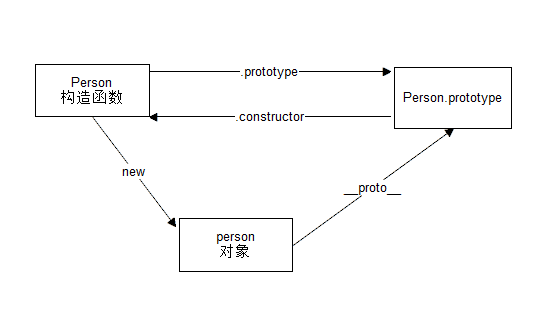
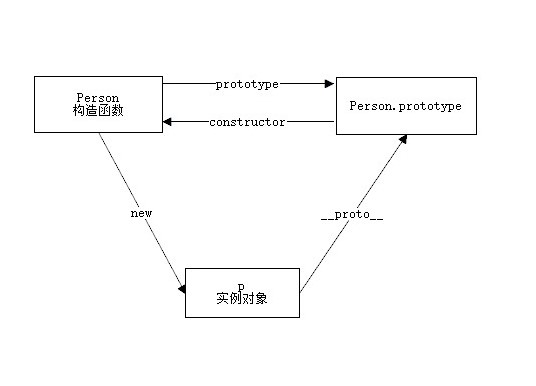
描述更改

diff --git a/JavaScript/JavaScript中的原型与原型链.md b/JavaScript/JavaScript中的原型与原型链.md
@@ -34,7 +34,7 @@
 
 <h3 id='prototype'>原型</h3>
 
-> JavaScript是基于原型的
+> `JavaScript` 是基于原型的
 
 > 我们创建的每个函数都有一个 `prototype(原型)` 属性，这个属性是一个指针，指向一个对象，而这个对象的用途是包含可以由特定类型的所有实例共享的属性和方法。
 
@@ -51,9 +51,9 @@
 ```js
 function Person(){}
 
-var person = new Person();
+var p = new Person();
 
-person.__proto__ === Person.prototype // true
+p.__proto__ === Person.prototype // true
 
 Person.prototype.constructor === Person // true
 ```
@@ -69,14 +69,14 @@ Person.prototype.age = 18;
 Person.prototype.sayHi = function() {
     alert('Hi');
 }
-var person = new Person();
 var person1 = new Person();
-person.name = 'oo';
-person.name // oo
-person.age // 18
-perosn.sayHi() // Hi
+var person2 = new Person();
+person1.name = 'oo';
+person1.name // oo
 person1.age // 18
-person1.sayHi() // Hi
+perosn1.sayHi() // Hi
+person2.age // 18
+person2.sayHi() // Hi
 ```
 从这段代码我们不难看出：
 - 实例可以共享原型上面的属性和方法
@@ -94,21 +94,21 @@ Person.prototype = {
     }
 }
 
-var person = new Person()
+var p = new Person()
 ```
 只是当我们在重写原型链的时候需要注意以下的问题:
 
 ```js
 function Person(){}
-var person = new Person();
+var p = new Person();
 Person.prototype = {
     name: 'tt',
     age: 18
 }
 
-Person.prototype.constructor == Person // false
+Person.prototype.constructor === Person // false
 
-person.name // undefined
+p.name // undefined
 ```
 
 一图胜过千言万语
@@ -183,10 +183,10 @@ Point.prototype.toString = function () {
 
 ```js
 function Person(){}
-var person = new Person();
+var p = new Person();
 
-person instanceof Person // true
-person instanceof Object // true
+p instanceof Person // true
+p instanceof Object // true
 ```
 > hasOwnProperty
 
@@ -197,11 +197,11 @@ function Person() {}
 Person.prototype = {
     name: 'tt'
 }
-var person = new Person();
-person.age = 15;
+var p = new Person();
+p.age = 15;
 
-person.hasOwnProperty('age') // true
-person.hasOwnProperty('name') // false
+p.hasOwnProperty('age') // true
+p.hasOwnProperty('name') // false
 ```
 
 <h3 id='question'>原型链的问题</h3>
@@ -220,7 +220,7 @@ person2.arr // [1, 2, 3, 4, 5]
 ```
 引用类型，变量保存的就是一个内存中的一个指针。所以，当原型上面的属性是一个引用类型的值时，我们通过其中某一个实例对原型属性的更改，结果会反映在所有实例上面，这也是原型 `共享` 属性造成的最大问题
 
-另一个问题就是我们在创建子类型（比如上面的 `person`）时，没有办法向超类型（ `Person` ）的构造函数中传递参数
+另一个问题就是我们在创建子类型（比如上面的 `p`）时，没有办法向超类型（ `Person` ）的构造函数中传递参数
 
 <h3 id='end'>后记</h3>
 
